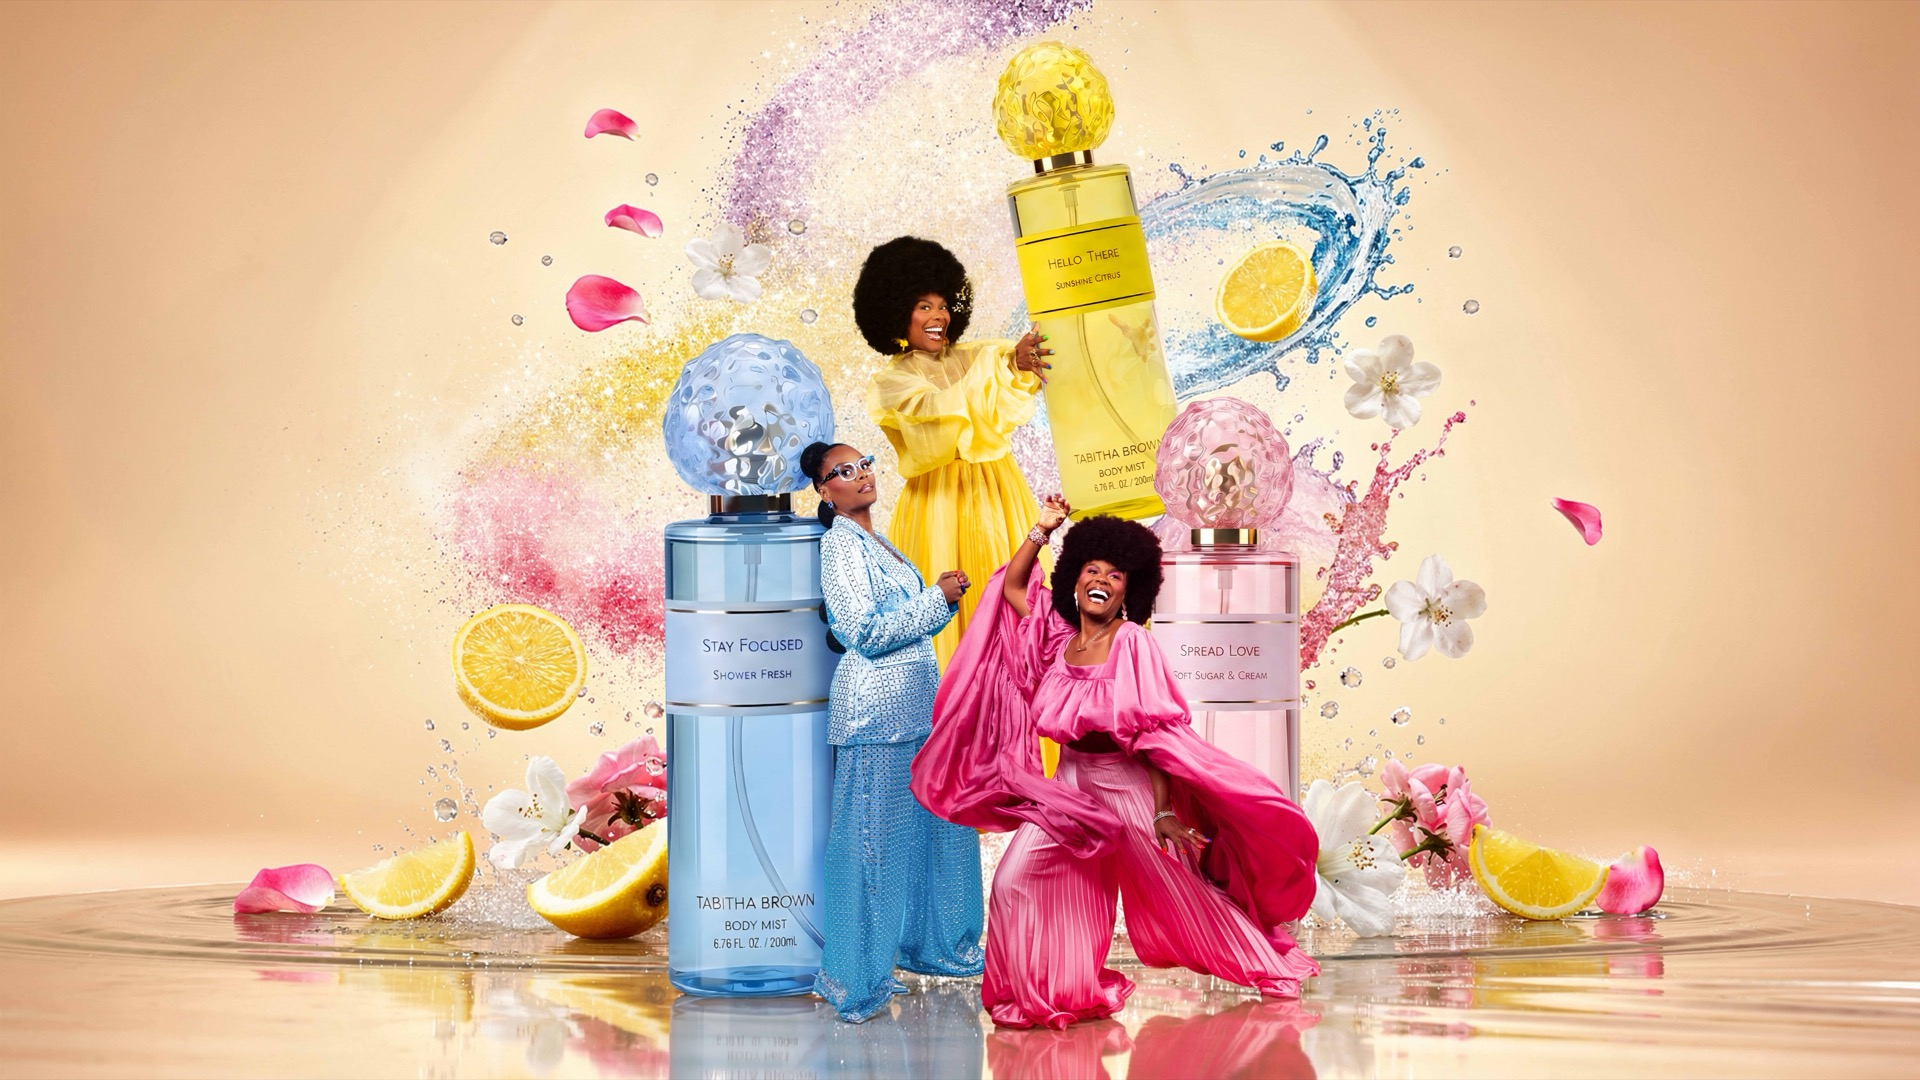
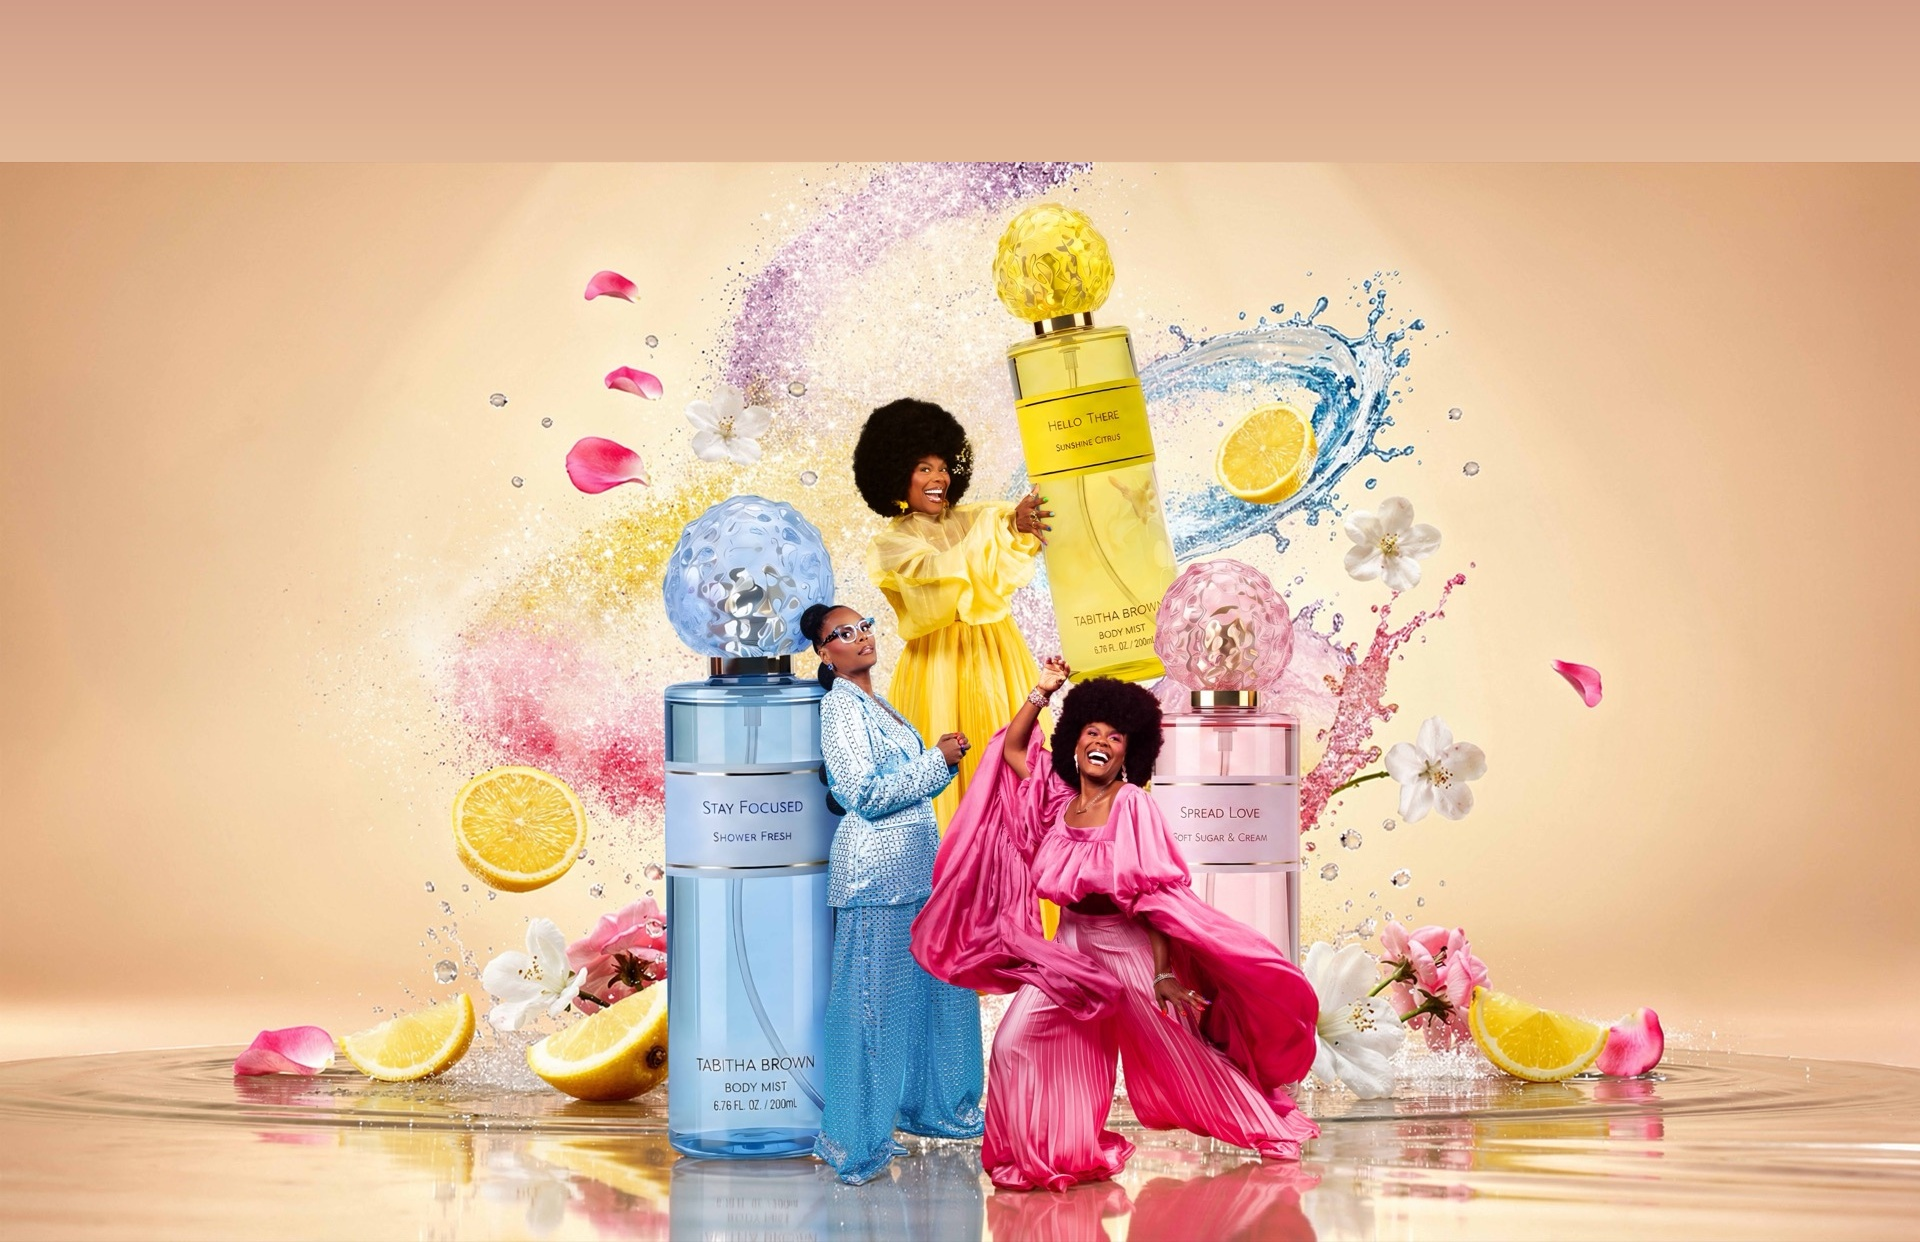
v2: real Tab+Chance photo edge-to-edge, fix mist bottle-cap crop, single popup image
- Tab + Chance: swapped to the real pool/lounge photo, fills edge-to-edge
  like every other slide (no more letterbox bars) — this photo has real
  margin around the couple so a normal crop never touches them
- Body Mist composite: added the same nav-safety gradient buffer used on
  the other slides — the yellow bottle's cap was the tallest element in
  frame and got clipped by the topnav, worse than the afros were
- Drop popup: replaced the 3-image flash-cycle with one static composite
  image per request — removed the now-unused dropF1/F2/F3/dropSettle
  keyframes and simplified to a single fade-in

diff --git a/v2.html b/v2.html
@@ -780,18 +780,12 @@
     backdrop-filter: blur(8px) saturate(135%);
   }
 
-  /* --- flash-reveal media frames --- */
+  /* --- single reveal image --- */
   .drop__media { position: absolute; inset: 0; background: #111; }
   .drop__frame { position: absolute; inset: 0; opacity: 0; }
-  .drop__frame img { width: 100%; height: 100%; object-fit: cover; object-position: center 24%; display: block; }
-  .popup[open] .drop__frame--1 { animation: dropF1 2.3s var(--ease-out) forwards; }
-  .popup[open] .drop__frame--2 { animation: dropF2 2.3s var(--ease-out) forwards; }
-  .popup[open] .drop__frame--3 { animation: dropF3 2.3s var(--ease-out) forwards; }
-  .popup[open] .drop__frame--3 img { animation: dropSettle 3.4s var(--ease-out) forwards; transform-origin: 60% 42%; }
-  @keyframes dropF1 { 0%{opacity:0} 5%{opacity:1} 16%{opacity:1} 21%{opacity:0} 100%{opacity:0} }
-  @keyframes dropF2 { 0%,18%{opacity:0} 23%{opacity:1} 34%{opacity:1} 39%{opacity:0} 100%{opacity:0} }
-  @keyframes dropF3 { 0%,36%{opacity:0} 45%{opacity:1} 100%{opacity:1} }
-  @keyframes dropSettle { from { transform: scale(1.12); } to { transform: scale(1); } }
+  .drop__frame img { width: 100%; height: 100%; object-fit: cover; display: block; }
+  .popup[open] .drop__frame { animation: dropFadeIn 0.6s var(--ease-out) forwards; }
+  @keyframes dropFadeIn { to { opacity: 1; } }
 
   .drop__scrim {
     position: absolute; inset: 0; pointer-events: none;
@@ -855,10 +849,8 @@
   .popup__cta svg { width: 16px; height: 8px; stroke: currentColor; }
 
   @media (prefers-reduced-motion: reduce) {
-    .drop__frame--1, .drop__frame--2 { display: none; }
     .popup[open],
-    .popup[open] .drop__frame--3,
-    .popup[open] .drop__frame--3 img,
+    .popup[open] .drop__frame,
     .popup[open] .drop__content { animation: none; opacity: 1; transform: none; }
   }
 
@@ -1087,7 +1079,7 @@
 
   <!-- SLIDE 1 — TAB + CHANCE (fragrance) -->
   <article class="slide" data-slide="1" role="group" aria-roledescription="slide" aria-label="2 of 8: Tab + Chance">
-    <div class="slide__media slide__media--no-zoom slide__media--contain" style="--obj-pos: center;">
+    <div class="slide__media slide__media--no-zoom" style="--obj-pos: center top;">
       <picture>
         <source type="image/avif" srcset="/src/assets/img/tab-chance-fragrance-1280.avif" />
         <img src="/src/assets/img/tab-chance-fragrance-1280.jpg" alt="Tabitha and Chance Brown holding the Tab + Chance fragrance bottles" loading="lazy" />
@@ -1109,7 +1101,7 @@
 
   <!-- SLIDE 2 — BODY MIST (new) -->
   <article class="slide" data-slide="2" role="group" aria-roledescription="slide" aria-label="3 of 8: Body Mist">
-    <div class="slide__media" style="--obj-pos: center 20%;">
+    <div class="slide__media slide__media--no-zoom" style="--obj-pos: center top;">
       <picture>
         <source type="image/avif" srcset="/src/assets/img/mist-composite-1280.avif" />
         <img src="/src/assets/img/mist-composite-1280.jpg" alt="Tabitha Brown Body Mist — Spread Love, Hello There, Stay Focused" loading="lazy" />
@@ -1304,22 +1296,10 @@
     <svg viewBox="0 0 14 14" fill="none"><path d="M2 2l10 10M12 2L2 12" stroke="currentColor" stroke-width="1.6" stroke-linecap="round"/></svg>
   </button>
   <div class="drop__media" aria-hidden="true">
-    <div class="drop__frame drop__frame--1">
+    <div class="drop__frame">
       <picture>
-        <source type="image/avif" srcset="/src/assets/img/mist-hello-there-640.avif 640w, /src/assets/img/mist-hello-there-1280.avif 1280w" sizes="(max-width: 480px) 92vw, 400px" />
-        <img src="/src/assets/img/mist-hello-there-1280.jpg" alt="" style="object-position: center 20%;" decoding="async" />
-      </picture>
-    </div>
-    <div class="drop__frame drop__frame--2">
-      <picture>
-        <source type="image/avif" srcset="/src/assets/img/mist-stay-focused-640.avif 640w, /src/assets/img/mist-stay-focused-1280.avif 1280w" sizes="(max-width: 480px) 92vw, 400px" />
-        <img src="/src/assets/img/mist-stay-focused-1280.jpg" alt="" style="object-position: center 30%;" decoding="async" />
-      </picture>
-    </div>
-    <div class="drop__frame drop__frame--3">
-      <picture>
-        <source type="image/avif" srcset="/src/assets/img/mist-spread-love-640.avif 640w, /src/assets/img/mist-spread-love-1280.avif 1280w" sizes="(max-width: 480px) 92vw, 400px" />
-        <img src="/src/assets/img/mist-spread-love-1280.jpg" alt="Tabitha Brown — Spread Love body mist" style="object-position: center 26%;" decoding="async" />
+        <source type="image/avif" srcset="/src/assets/img/mist-popup-composite-640.avif 640w, /src/assets/img/mist-popup-composite-1280.avif 1280w" sizes="(max-width: 480px) 92vw, 400px" />
+        <img src="/src/assets/img/mist-popup-composite-1280.jpg" alt="Tabitha Brown Body Mist — Spread Love, Hello There, Stay Focused" style="object-position: center top;" decoding="async" />
       </picture>
     </div>
   </div>
